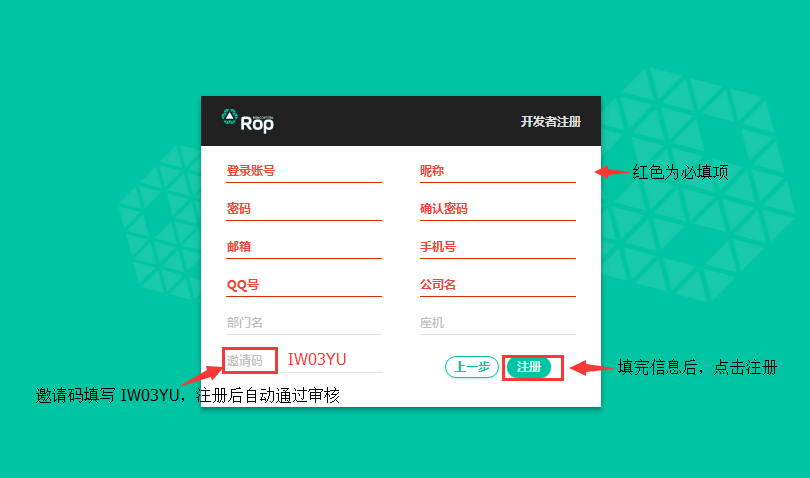
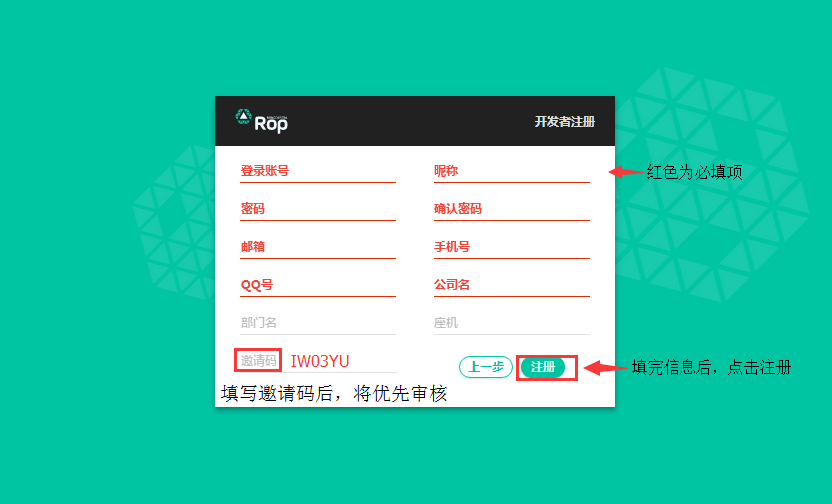
更新README.md文档

diff --git a/README.md b/README.md
@@ -52,21 +52,21 @@ OF THIS SOFTWARE, EVEN IF ADVISED OF THE POSSIBILITY OF SUCH DAMAGE.
 ![](https://github.com/lktech/xvp_demo/raw/master/image/03.png)<br>
 ![](https://github.com/lktech/xvp_demo/raw/master/image/04.png)<br>
 
-###3.登录后，点击右上角昵称，选择`应用管理`，进入应用列表页面 <br>
+###3.注册后,加入QQ群451528860，联系平台人员，立马为您审批<br>
+
+###4.登录后，点击右上角昵称，选择`应用管理`，进入应用列表页面 <br>
 ![](https://github.com/lktech/xvp_demo/raw/master/image/05.png)<br>
 
-###4.添加应用<br>
+###5.添加应用<br>
 ![](https://github.com/lktech/xvp_demo/raw/master/image/06.png)<br>
 ![](https://github.com/lktech/xvp_demo/raw/master/image/07.png)<br>
 
-###5.点击账号信息，查看详情信息<br>
+###6.点击账号信息，查看详情信息<br>
 ![](https://github.com/lktech/xvp_demo/raw/master/image/08.png)<br>
 
-###6.审核通过后，申请小微铺核心API<br>
+###7.审核通过后，申请小微铺核心API<br>
 ①点API信息；②选择未申请；③选择小微铺核心API；④选中需要申请的API；⑤申请API<br>
 ![](https://github.com/lktech/xvp_demo/raw/master/image/09.png)<br>
-
-###7.申请API后,加入QQ群451528860 进行审批<br>
 
 ###8.申请API审批通过后，点击API信息，选择已申请，点击API，查看API详细信息(入参，返回结果示例，错误码等)<br>
 ![](https://github.com/lktech/xvp_demo/raw/master/image/10.png)<br>
